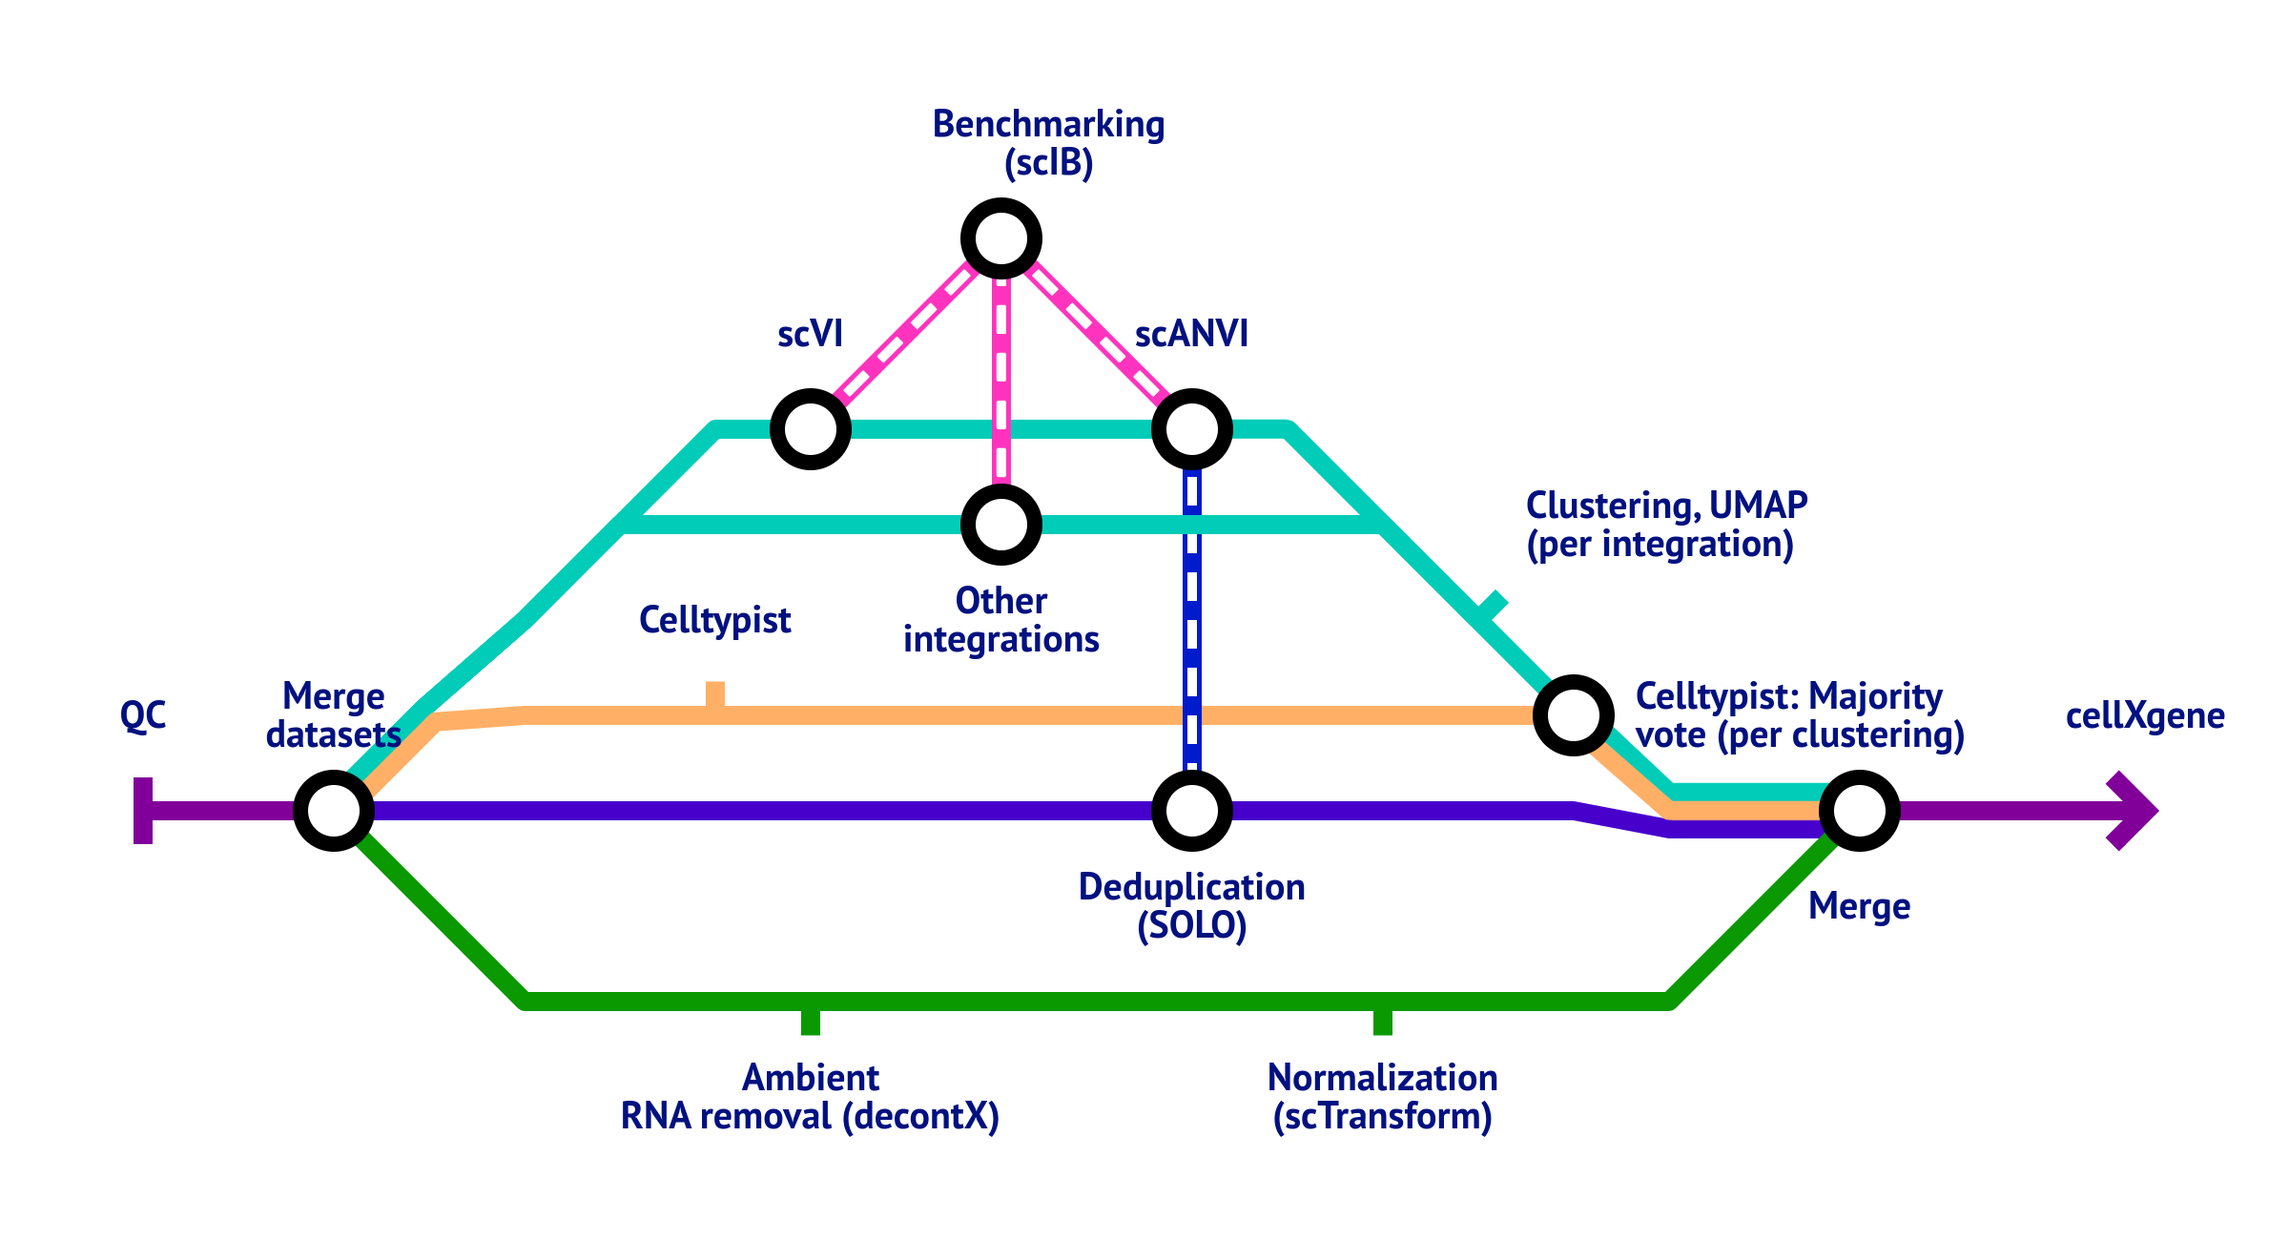
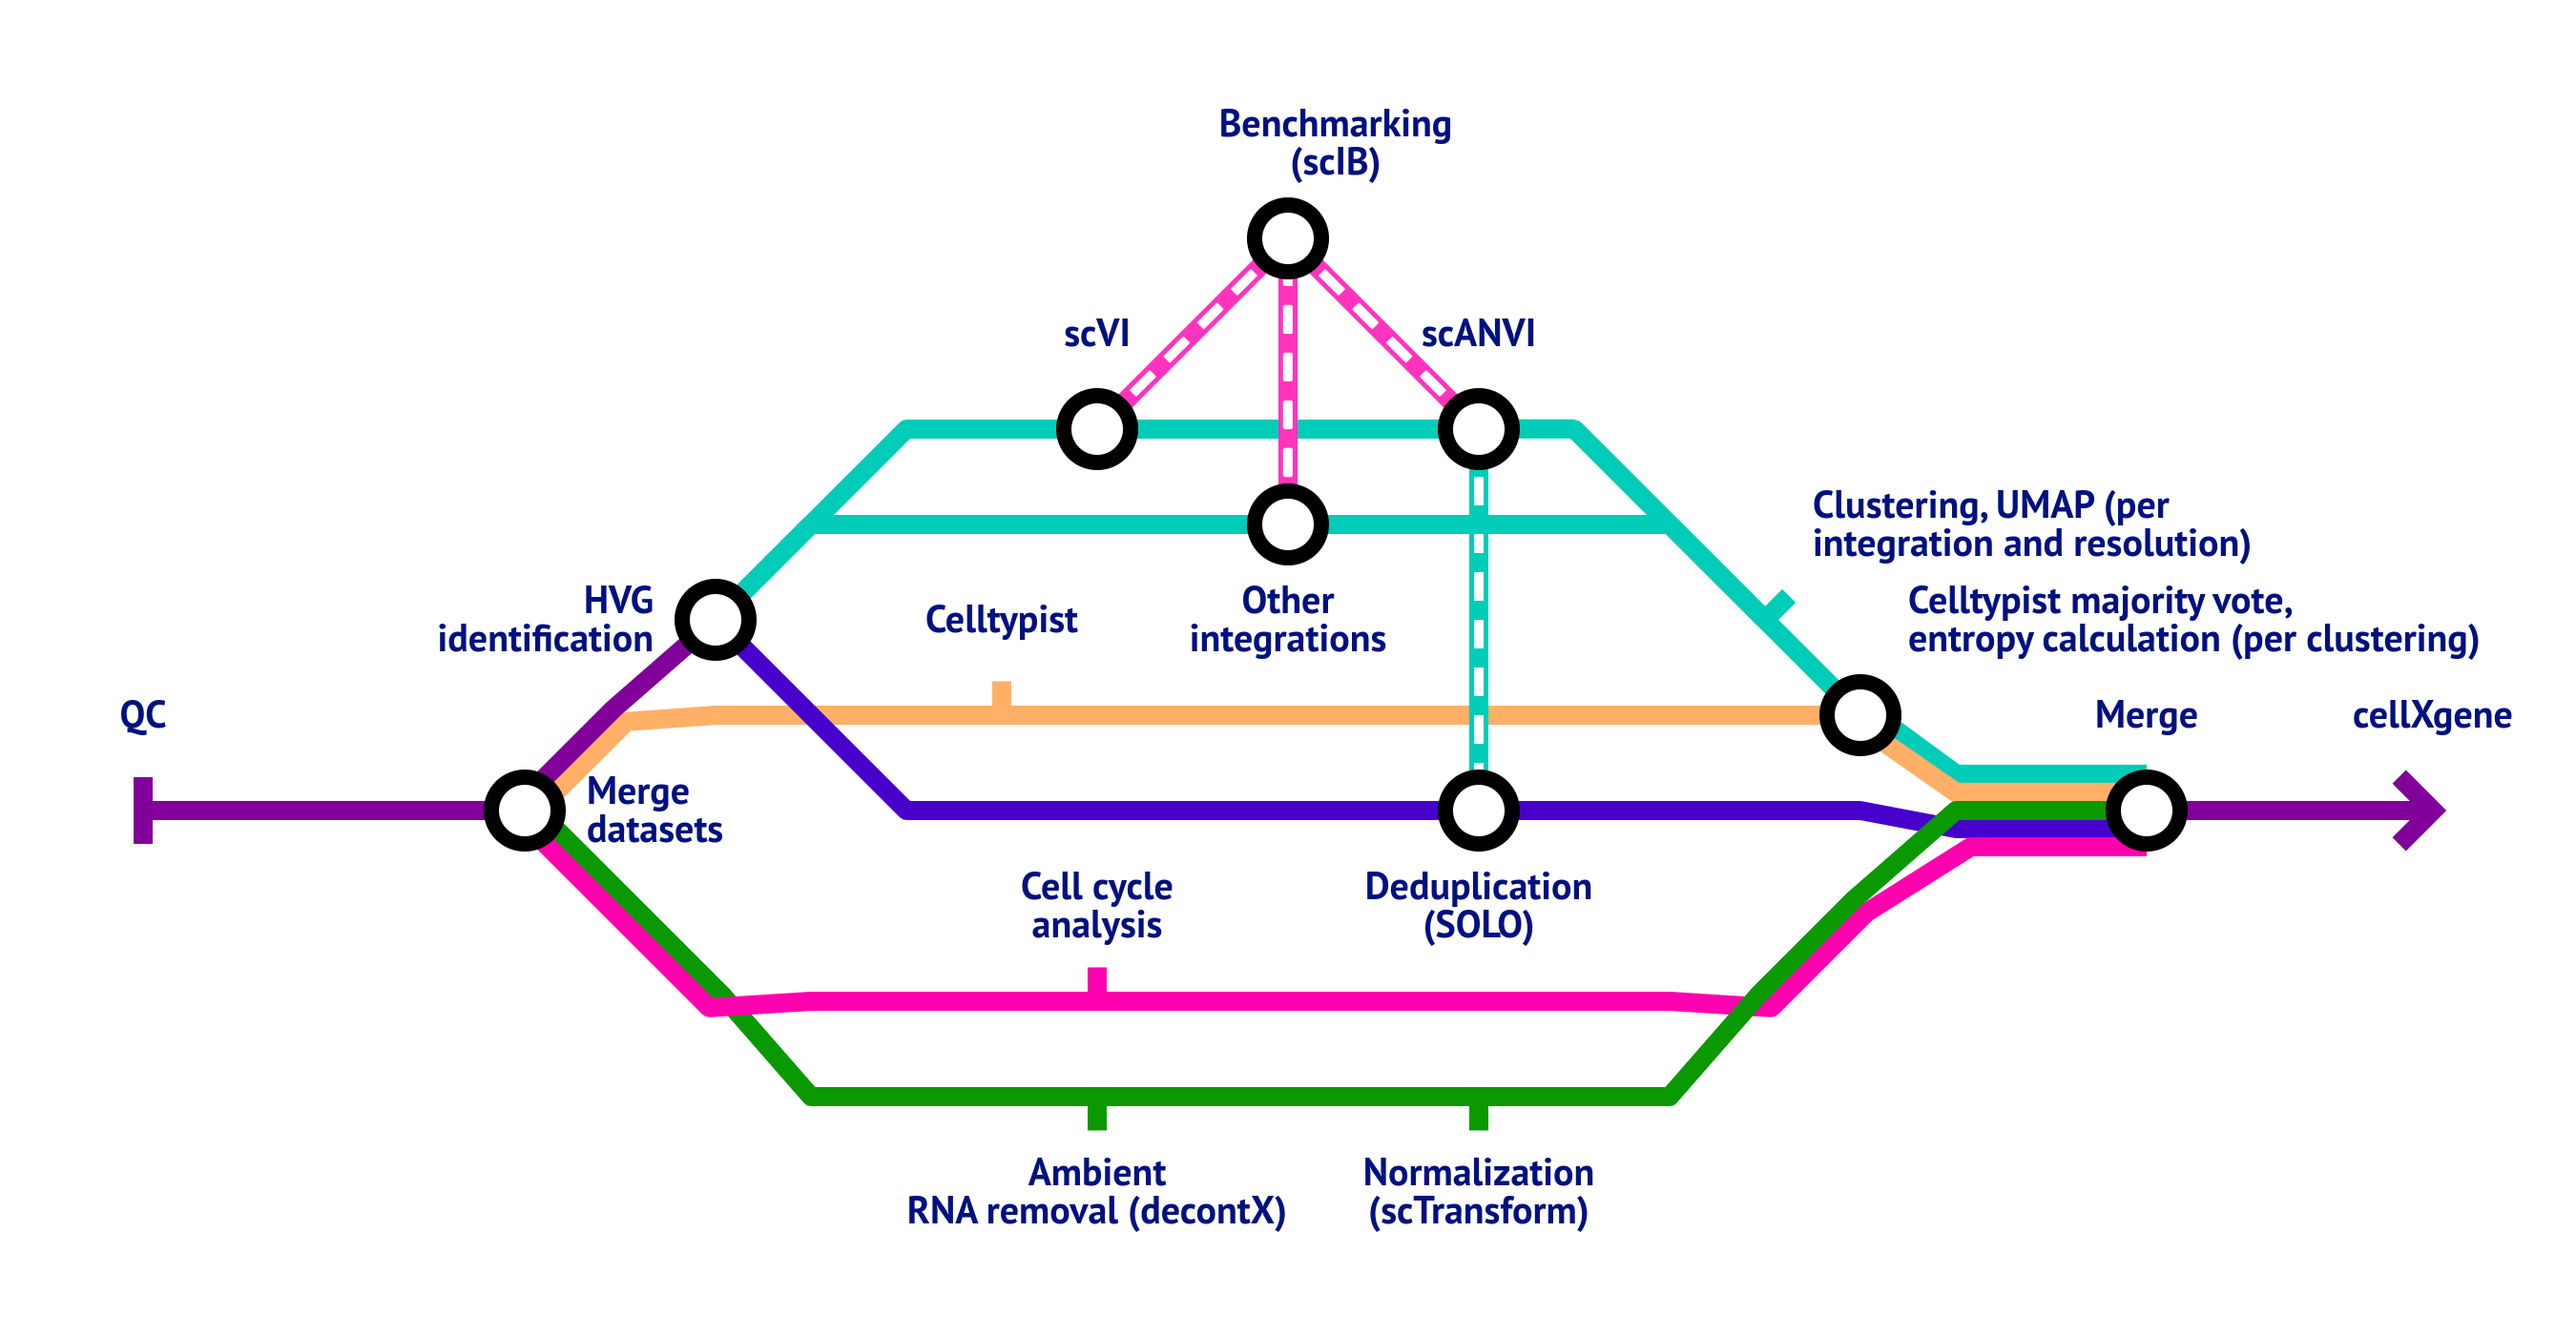
Update metro map

Changed region(s): [[0.0312, 0.0615, 0.9688, 0.9231]]

diff --git a/README.md b/README.md
@@ -11,7 +11,7 @@ This pipeline is written in nextflow and based on the LUCA pipeline:
 ## Overview
 
 ![Metro map](./www/SIMBA.png)
-Created using [Tennessine](https://tennessine.co.uk/metro/fc8a8ba6ac25fca)
+Created using [Tennessine](https://tennessine.co.uk/metro/f51c720e6111045)
 
 ## Usage
 
